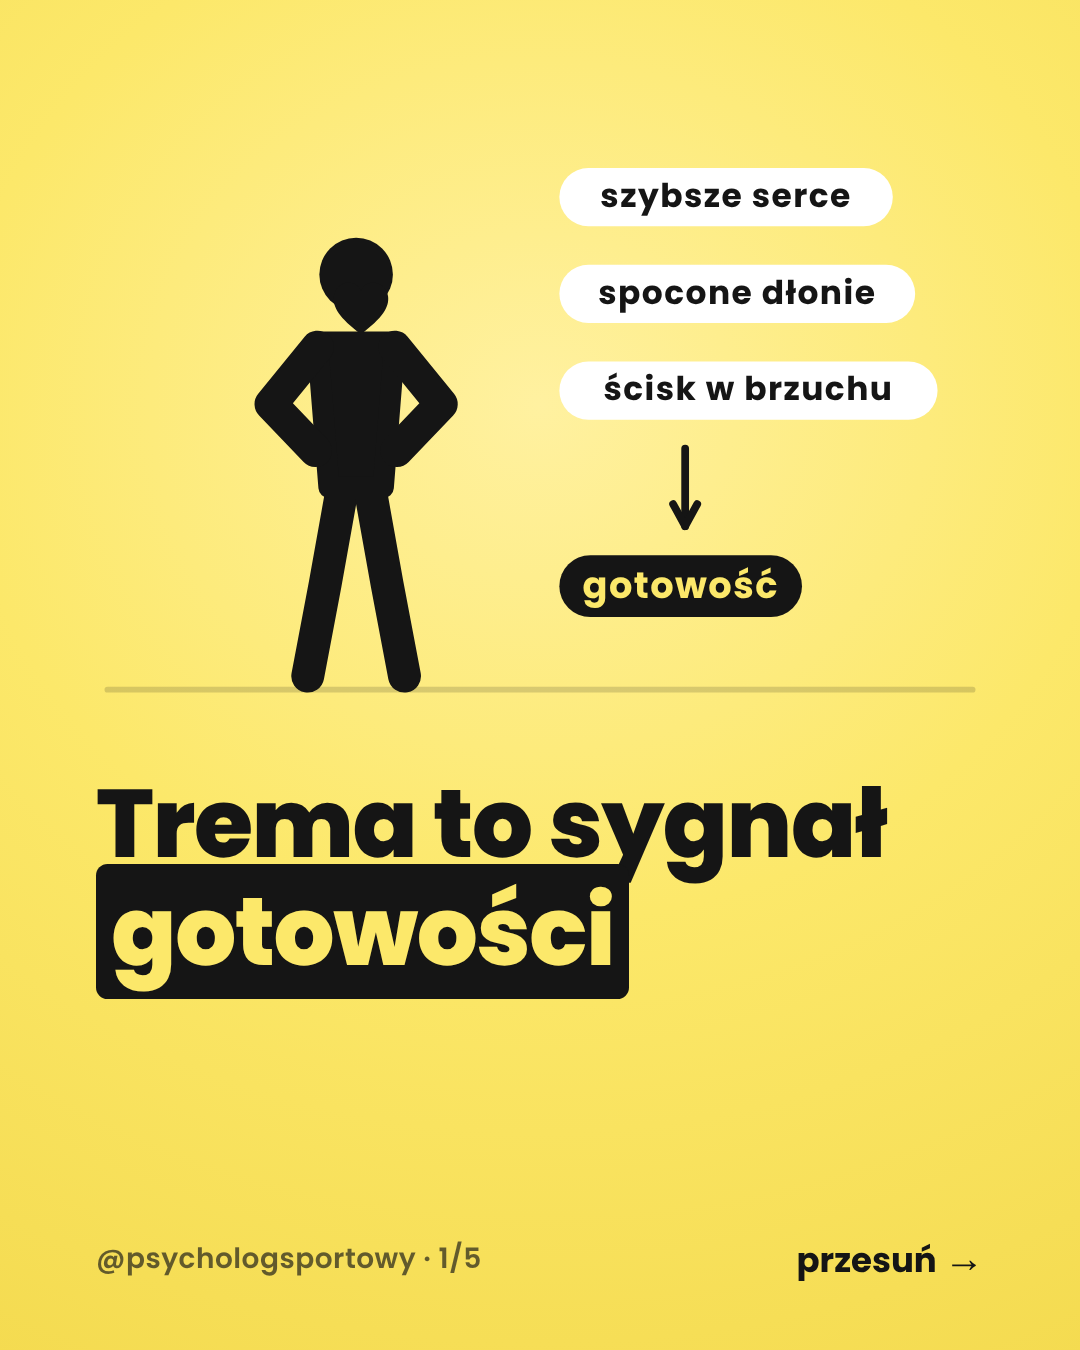
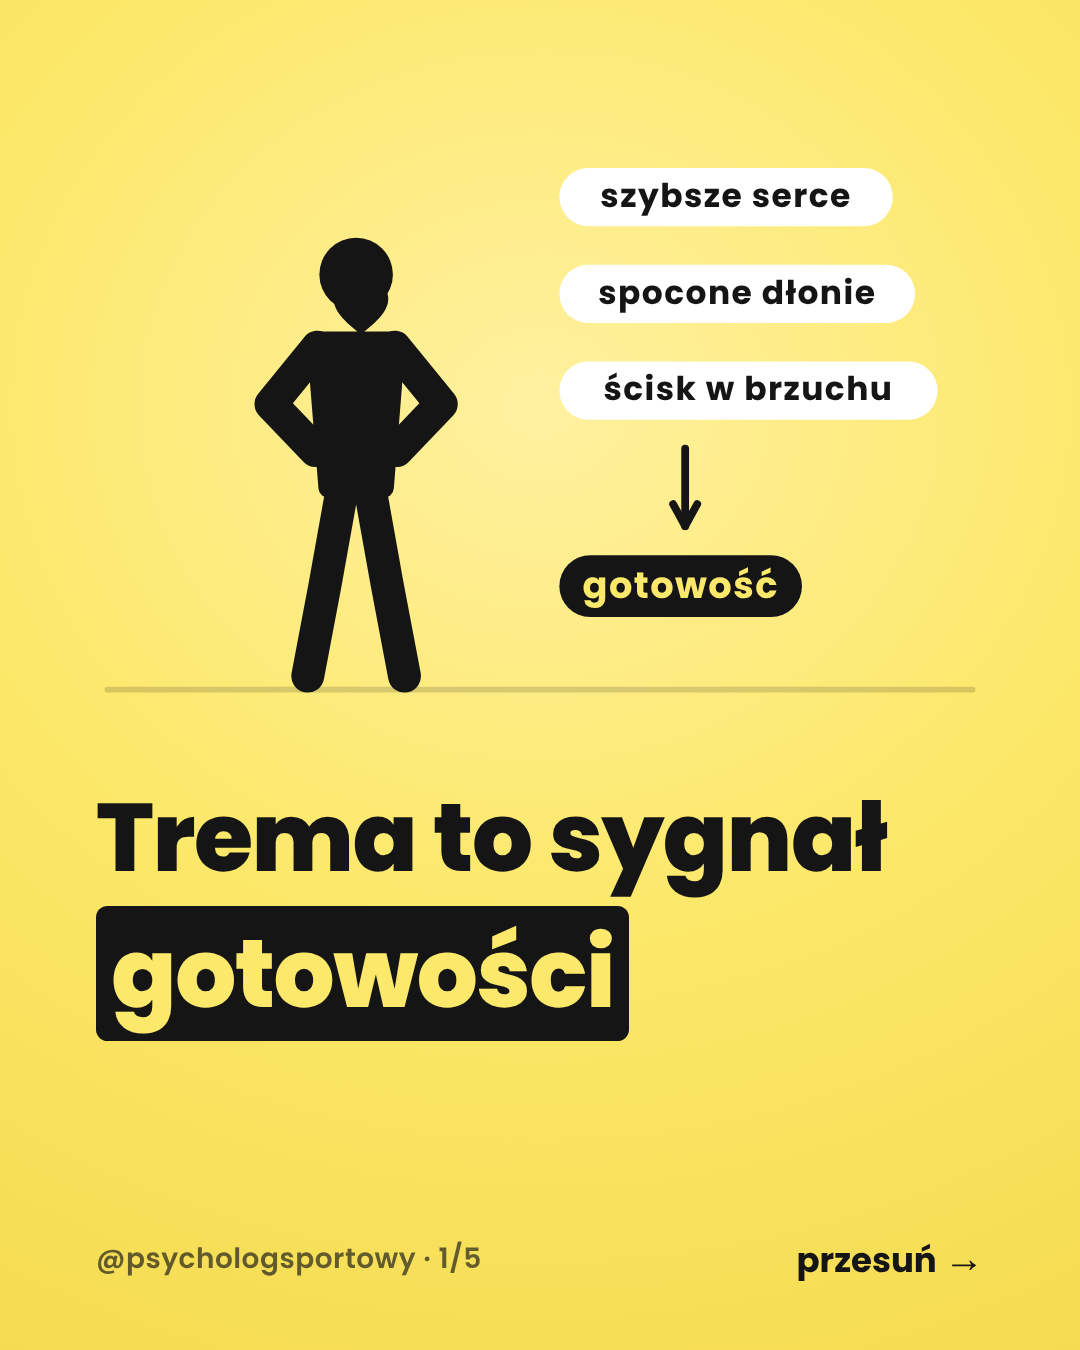
@psychologsportowy: grudzień posty 16-20
Żółte okładki i ostatnie slajdy z 1-15 przerysowane z większą interlinią, żeby czarne podświetlenie nie nachodziło na linię wyżej (psy2.js: opcjonalne lh).

Claude-Session: https://claude.ai/code/session_01A5PTvWpyS7iEo6fG2kmJPS

Changed region(s): [[0.0917, 0.56, 0.825, 0.7778]]

diff --git a/tools/psy2.js b/tools/psy2.js
@@ -17,6 +17,7 @@
 //     "sub": "Tak działa perfekcjonizm",     // opcjonalny podtytuł
 //     "pre": "Na treningu wychodzi.",        // opcjonalna przekreślona linia nad tytułem (stare przekonanie)
 //     "size": 100, "artTop": 110, "artH": 600, "titleTop": 770,   // opcjonalne korekty układu (px)
+//     "lh": 1.25,                            // opcjonalna interlinia tytułu (np. żeby czarne podświetlenie nie wchodziło na linię wyżej); end też przyjmuje "lh"
 //     "art": { "type": "<nazwa z ART>", ...parametry },  // ilustracja okładki (obowiązkowa)
 //     "left": "TRENING", "right": "ZAWODY",  // tylko split
 //     "big": "3", "bigSize": 300, "bigSub": "minut do startu", "vb": "0 0 900 420"             // tylko big (duża liczba/hasło + mały rysunek w prawym dolnym rogu)
@@ -422,7 +423,7 @@ function cover(t, c) {
   const art = (ART[c.art.type] || VIZ[c.art.type])(t, c.art);
   const ts = c.size || titleSize(c.title, 104);
   const pre = c.pre ? `<div class="pre" style="color:${t.mute}">${rich(c.pre)}</div>` : '';
-  const title = pre + `<div class="h" style="font-size:${ts}px;color:${t.fg}${c.italic ? ';font-style:italic' : ''}">${rich(c.title)}</div>`;
+  const title = pre + `<div class="h" style="font-size:${ts}px;color:${t.fg}${c.italic ? ';font-style:italic' : ''}${c.lh ? ';line-height:' + c.lh : ''}">${rich(c.title)}</div>`;
   const sub = c.sub ? `<div class="sub" style="color:${t.mute}">${rich(c.sub)}</div>` : '';
   if (c.layout === 'top') return `<div class="box" style="top:110px">${kick(t, c.kicker)}${title}${sub}</div>
     <svg class="art" viewBox="0 0 900 620" style="top:${c.artTop || 590}px;height:${c.artH || 560}px">${art}</svg>`;
@@ -444,7 +445,7 @@ function point(t, p, n) {
 function end(t, e) {
   return `<div class="box" style="top:150px;align-items:center;text-align:center">
     <svg viewBox="0 0 400 300" style="width:400px;height:300px;margin-bottom:60px">${typeof e.art === 'object' ? scene(t, e.art) : END[e.art || 'think'](t)}</svg>
-    <div class="h" style="font-size:${e.size || 80}px;color:${t.fg}">${rich(e.question)}</div>
+    <div class="h" style="font-size:${e.size || 80}px;color:${t.fg}${e.lh ? ';line-height:' + e.lh : ''}">${rich(e.question)}</div>
     <div style="width:150px;height:10px;border-radius:5px;background:${t.A};margin:60px 0 50px"></div>
     <div class="cta" style="color:${t.fg}"><svg viewBox="0 0 24 24" width="44" height="44" style="flex:none"><path d="M6 3h12v18l-6-4.5L6 21z" fill="${t.A}"/></svg><span>${rich(e.cta || 'Zapisz, żeby wrócić przed startem.')}</span></div></div>`;
 }
